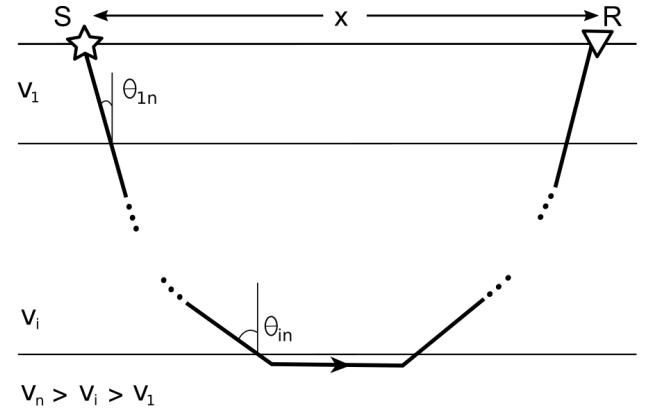
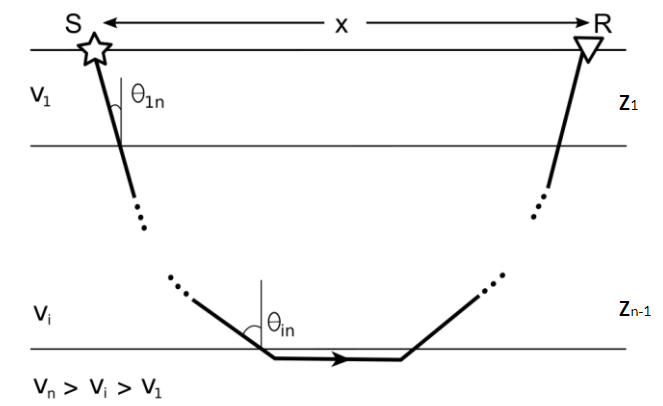
starting podvin part

diff --git a/Textos/RevisaoBibliografica.tex b/Textos/RevisaoBibliografica.tex
@@ -27,7 +27,7 @@ A equação base para a simulação sísmica utilizando a simplificação para m
 \begin{equation}
 	\begin{cases}
 		dh \le v_{\text{min}} \,/\, (\alpha \cdot f_{\text{max}}) \\
-		dt \le dh \,/\, (\beta \cdot v_{\text{max}})
+		dt \le dh \,/\, (\beta \cdot v_{\text{max}}),
 	\end{cases}
 \end{equation}   
 \noindent onde $dh$ e $dt$ são os parâmetros de discretização espacial e temporal respectivamente, $v_{\text{min}}$ e $v_{\text{max}}$ são as velocidades da onda P mínima e máxima no modelo, $f_{\text{max}}$ é a frequência máxima da fonte sísmica aplicada, e $\alpha$ e $\beta$ são as quantidades de amostras para representar um comprimento de onda no espaço e no tempo respectivamente. Os valores de $\alpha$ e $\beta$ variam de acordo com a ordem do operador de diferenças finitas \cite{bulcao2004modelagem}.    
@@ -36,7 +36,7 @@ A fonte sísmica pode assumir diferentes formas dependendo de seu formato ou equ
 \begin{equation}
 	\begin{cases}
 		f_p = f_{\text{max}} / (3\sqrt{\pi}) \\
-		g(t) = (1 - 2 \pi (\pi f_p t)^2) \exp(-\pi (\pi f_p t)^2)
+		g(t) = (1 - 2 \pi (\pi f_p t)^2) \exp(-\pi (\pi f_p t)^2),
 	\end{cases}
 \end{equation}
 \noindent sendo $f_p$ a frequência de pico, $g(t)$ a fonte sísmica e $t$ o eixo do tempo. 
@@ -53,41 +53,52 @@ Utilizando a equação da onda em simulações sísmicas, alguns tipos de onda s
 
 A equação eikonal pode ser definida como uma aproximação de altas frequências para a equação da onda em meios acústicos. Essa definição pode ser expandida para outras simplificações de meio, como por exemplo o meio elástico isotrópico \cite{cerveny2003seismic}. \citeonline{rawlinson2008seismic} mostram as etapas de simplificação partindo da equação \ref{wave_equation}, assumindo uma solução periódica envolvendo tempo e frequência angular, aplicando essa solução na equação da onda, simplificando os termos e aplicando o limite da frequência angular tendendo ao infinito. Assim, a equação eikonal em três dimensões segue no formato 
 \begin{equation}
-	\left[\dfrac{\partial T(\mathbf{x})}{\partial x}\right]^2 + \left[\dfrac{\partial T(\mathbf{x})}{\partial y}\right]^2 + \left[\dfrac{\partial T(\mathbf{x})}{\partial z}\right]^2 = \dfrac{1}{v^2(\mathbf{x})} 	
+	\left[\dfrac{\partial T(\mathbf{x})}{\partial x}\right]^2 + \left[\dfrac{\partial T(\mathbf{x})}{\partial y}\right]^2 + \left[\dfrac{\partial T(\mathbf{x})}{\partial z}\right]^2 = \dfrac{1}{v^2(\mathbf{x})}, 	
 \end{equation} 
-\noindent sendo $T(\mathbf{x})$ a função tempo de trânsito avaliada na posição $\mathbf{x} = (x,y,z)$ e $s = 1/v$ pode ser chamado de vagarosidade, o inverso da velocidade. 
-
-
-
-
-
+\noindent sendo $T(\mathbf{x})$ a função tempo de trânsito avaliada na posição $\mathbf{x} = (x,y,z)$ e $s = 1/v$ pode ser chamado de vagarosidade, o inverso da velocidade. A principal aplicação da equação eikonal utilizando o método sísmico parte da modelagem sísmica, com o trabalho pioneiro de \citeonline{vidale1988finite} onde os tempo de trânsito das primeiras chegadas são calculados. Outras aplicações são os métodos de estimativa da velocidade, como a tomografia de primeira chegada \cite{zhang1998nonlinear, sei1994gradient, tromp2005seismic, taillandier2009first},  e as técnicas de imageamento sísmico, como a migração em profundidade   \cite{gray1994kirchhoff, zhang2006refraction}.  
+ 
 \subsection*{Equação analítica para ondas refratadas}
 
-livro do kearey \cite{kearey2002introduction}
-
-
-
+Apesar de existir em parametrizações variadas do modelo de velocidade, as formulações para o cálculo das primeiras chegadas possuem certas limitações \cite{kearey2002introduction}. Somente uma variação será explorada, onde o modelo de velocidades deve ser plano paralelo com camadas horizontais sem variação de velocidade lateral e a fonte e os receptores devem estar na mesma profundidade. A equação analítica para este caso pode ser escrita de forma generalizada no formato a seguir  
 \begin{equation}
-	t_n = \dfrac{x}{v_n} + \displaystyle\sum_{i=1}^{n-1} 2z_i cos(\theta_{in})
+	\begin{cases}
+		t_n = \dfrac{x}{v_n} + \displaystyle\sum_{i=1}^{n-1} \dfrac{2z_i cos(\theta_{in})}{v_i}\\
+		\theta_{in} = \arcsin(v_i / v_n),
+	\end{cases}
+	\label{analytic_refractions}
 \end{equation}
+\noindent onde $t_n$ e $v_n$ é o tempo e a velocidade da $n$-ésima camada, $x$ é a distância entre a fonte e o receptor, $z_i$ é a espessura da $i$-ésima camada e $\theta_{in}$ é o ângulo crítico da refração. 
+
+As componentes da equação \ref{analytic_refractions}, ilustradas para uma trajetória entre fonte e receptor, são apresentadas na figura \ref{fig:refracted_analytic}. Na prática, um arranjo de receptores para uma fonte, as velocidades e as espessuras das camadas são consideradas. Então para cada interface refratora, as camadas anteriores são utilizadas, que para o caso de uma interface a equação \ref{analytic_refractions} pode ser definida da seguinte forma 
+\begin{equation}
+	\begin{cases}
+		t = \dfrac{x}{v_2} + \dfrac{2z_1cos(\theta_{12})}{v_1}\\
+		\theta_{12} = \arcsin(v_1 / v_2),
+	\end{cases}
+	\label{analytic_one_layer_case}
+\end{equation}   
+\noindent e para duas interfaces, a equação \ref{analytic_refractions} se torna
+\begin{equation}
+	\begin{cases}
+		t = \dfrac{x}{v_3} + \dfrac{2z_1cos(\theta_{13})}{v_1} + \dfrac{2z_2cos(\theta_{23})}{v_2}\\
+		\theta_{13} = \arcsin(v_1 / v_3) \\ 
+		\theta_{23} = \arcsin(v_2 / v_3), 
+	\end{cases}
+	\label{analytic_two_layer_case}
+\end{equation}   
+\noindent enquanto a onda direta recebe o tempo da cinemática clássica $t = x / v_1$. Com as equações abordadas acima, é possível gerar um sismograma sintético somente com tempos analíticos da primeira chegada. Para isso é necessário coletar os tempos mínimos gerados por cada interface refratora inclusive a onda direta. Essa abordagem analítica desenvolve o papel, neste trabalho, de mensurar os erros referentes aos métodos numéricos estudados.
 
 \begin{figure}[H]
 	\centering
-	\includegraphics[width = 11cm, height = 7cm]{Imgs/RevisaoBibliografica/refracted_analytic.png}
-	\caption{}
+	\includegraphics[width = 14cm, height = 8cm]{Imgs/RevisaoBibliografica/refracted_analytic.png}
+	\caption{Esquema de modelagem analítica dos tempos da onda refratada. S e R são as posições da fonte e do receptor respectivamente. V e Z são as velocidades e as espessuras das camadas. $\theta$ é o angulo crítico das refrações e $i$ e $n$ se relacionam com a equação \ref{analytic_refractions}. Esquema geral com limitações entre posição de fonte e receptor, onde precisam estar na mesma profundidade, e velocidades, onde devem ser constantes lateralmente contendo camadas planas e horizontais.}
 	\label{fig:refracted_analytic}
 \end{figure}
 
-
-
 \subsection*{Método clássico}
 
-\cite{vidale1988finite}
-\cite{podvin1991finite}
-\cite{afnimar2000finite}
-\cite{tryggvason2006travel}
+O método base utilizado para mensurar os avanços tanto em precisão quanto em eficiência computacional dos métodos numéricos que resolvem a equação eikonal foi a formulação de \citeonline{podvin1991finite}. Grandes contribuições foram publicadas em relação a localização não linear de epicentro e hipocentro de terremotos utilizando a formulação clássica, originadas com o trabalho de  \citeonline{wittlinger1993earthquake}, além das contribuições em tomografia e migração já mencionadas. A formulação de \citeonline{podvin1991finite} apresenta algumas limitações como instabilidade em camadas com alto angulo de mergulho \cite{afnimar2000finite} e discrepância no cálculo dos tempos de trânsito utilizando a técnica da reciprocidade, onde a fonte assume a posição dos receptores e vice-versa \cite{tryggvason2006travel}. \citeonline{lomax2009earthquake} hospeda um repositório no \textit{GitHub}, de livre acesso, contendo os códigos originais para o cálculo da primeira chegada.  
 
-desenvolvimento com o algoritmo time3d
 
 
 
